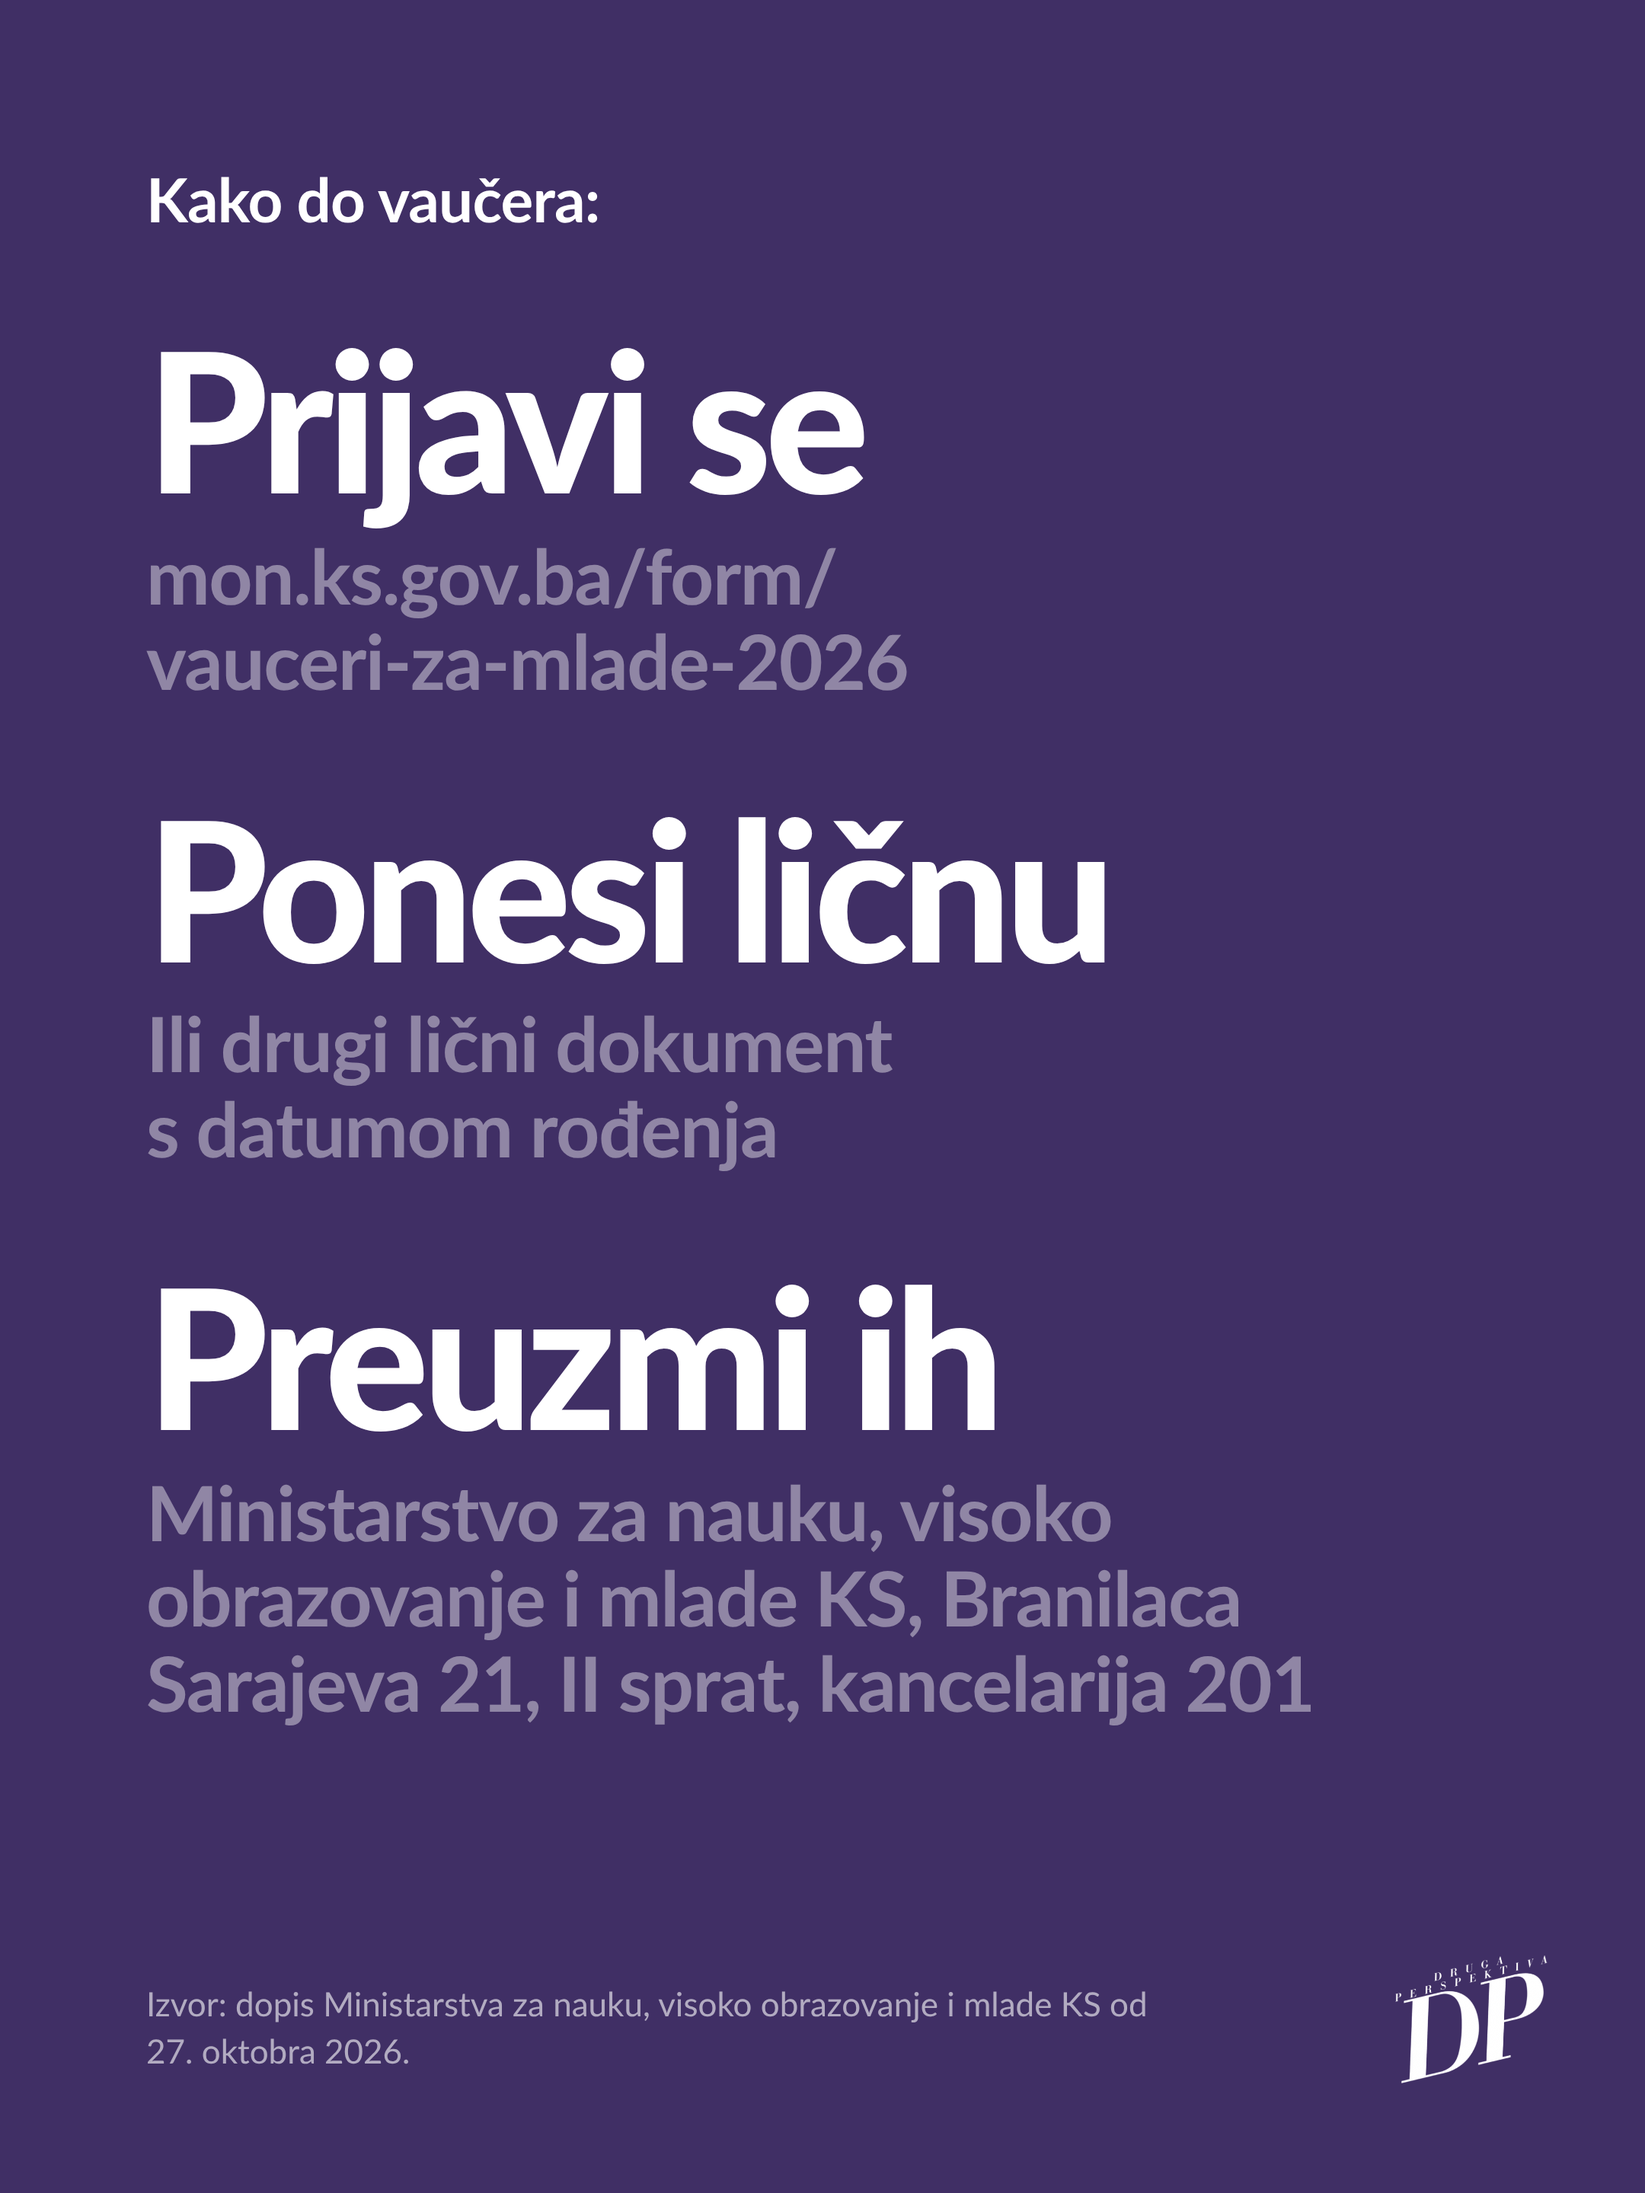
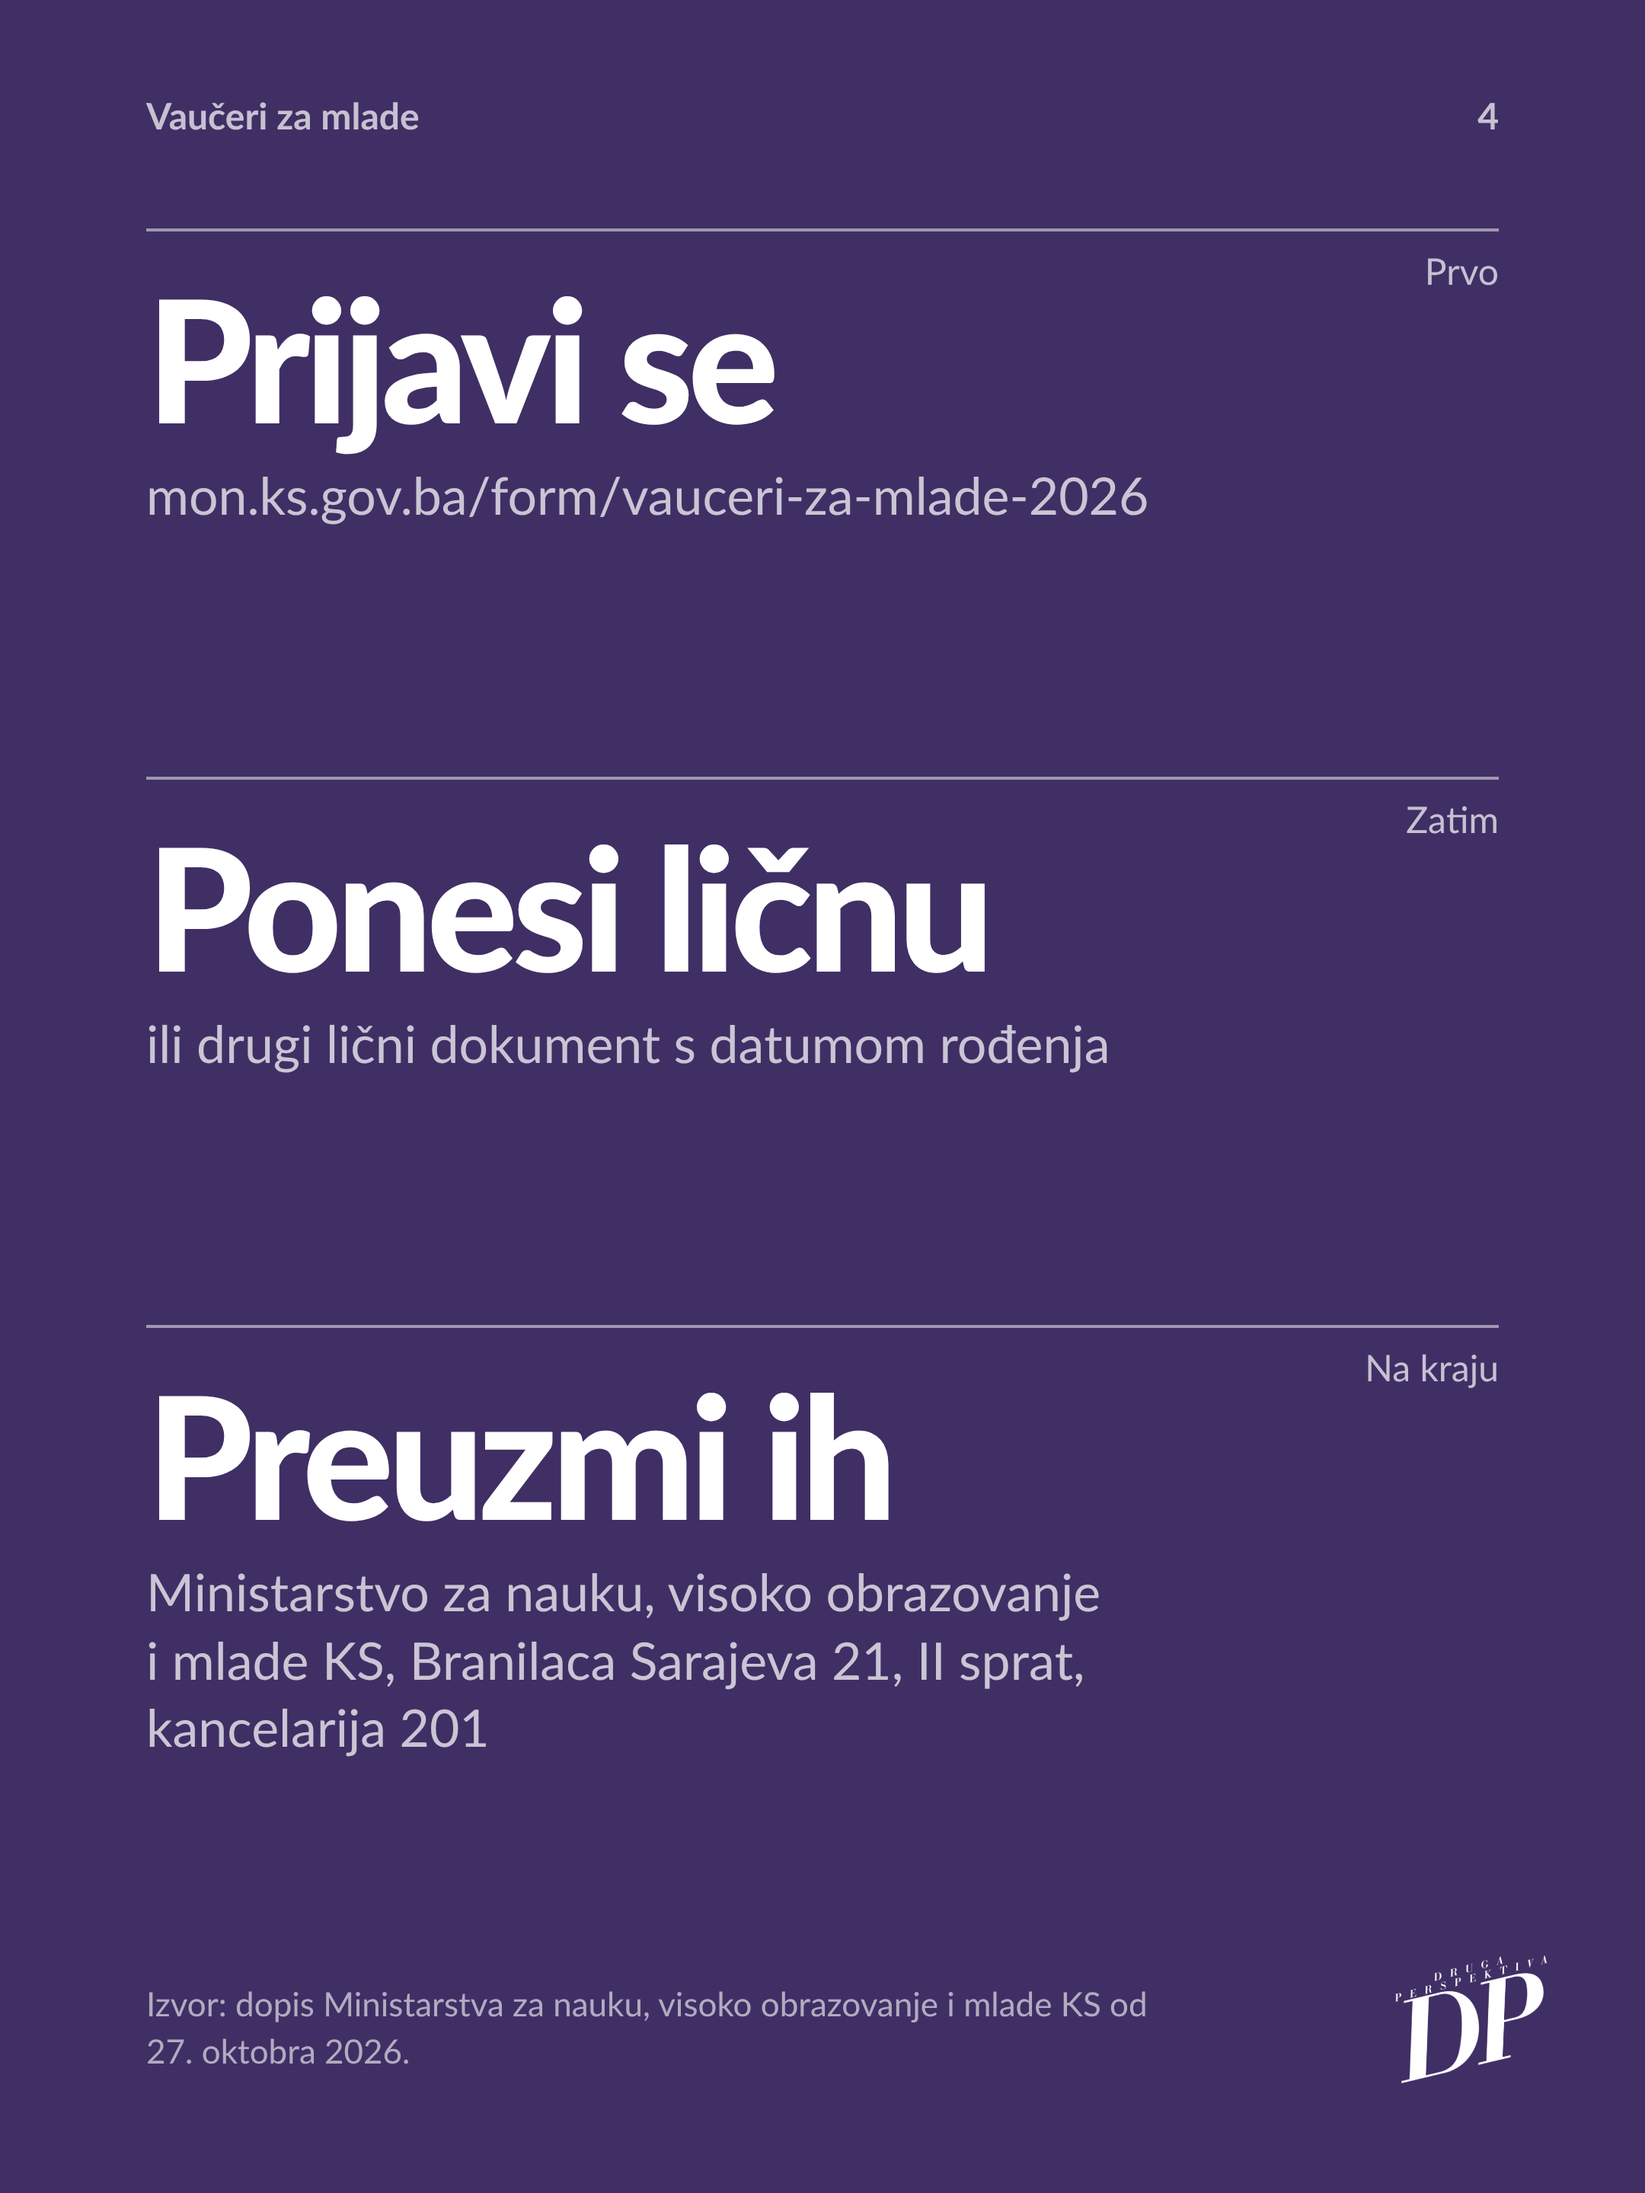
Vaučeri za mlade: zajednička mreža, tekući naslov, tekst na nebu
Claude-Session: https://claude.ai/code/session_01SB3ebjUddtcZXLP7FT1aSs

diff --git a/promo/vauceri-za-mlade/dizajn.html b/promo/vauceri-za-mlade/dizajn.html
@@ -75,31 +75,33 @@ body { background: #777; font-family: "Lato", sans-serif; color: #fff; padding: 
 
 
 
-/* ---- Vaučeri za mlade: veliki Lato Black, naizmjenično bijelo i blijedo ---- */
-.blijedo { color: rgba(255,255,255,.42); }
 
-/* Slajd 2: fotografija preko cijelog slajda */
-.c .prelaz { height: 74%; }
-.c .dno { position: absolute; left: 64px; right: 64px; bottom: 132px; }
-.c .izjava { font-size: 150px; }
-.c .tekst { margin-top: 28px; font-size: 36px; color: rgba(255,255,255,.9); }
+/* ---- Vaučeri za mlade: zajednička mreža ----
+   Margine 96 px, tekući naslov gore (kao u časopisu), tanke linije dijele trake. */
+.folio { position: absolute; left: 96px; right: 96px; top: 64px; display: flex; justify-content: space-between; font-size: 24px; font-weight: 700; color: rgba(255,255,255,.7); }
+.traka { position: relative; border-top: 2px solid rgba(255,255,255,.5); }
+.traka .oznaka-trake { position: absolute; right: 0; top: 14px; font-size: 24px; color: rgba(255,255,255,.7); }
 
-/* Slajd 3: plakat, svako ime razvučeno preko cijele širine (JS ispod) */
-.a { padding: 104px 96px 0; }
-.a .uvod { font-size: 40px; font-weight: 700; letter-spacing: -0.01em; }
-.a .imena { position: absolute; left: 96px; right: 96px; top: 190px; bottom: 190px; display: flex; flex-direction: column; justify-content: space-between; }
-.a .imena span { display: block; white-space: nowrap; font-weight: 900; line-height: .8; letter-spacing: -0.035em; width: max-content; }
-.a .imena .muzej { color: var(--narandza); }
-.a .dno { position: absolute; left: 96px; right: 200px; bottom: 76px; font-size: 34px; line-height: 1.3; color: rgba(255,255,255,.9); }
-.a .dno b { border-left: 12px solid var(--narandza); padding-left: 24px; display: block; }
+/* Slajd 2: tamni tekst na nebu, zgrada nosi donji dio */
+.c .foto { height: 1660px; bottom: auto; object-position: 50% 0%; }
+.c .folio { color: rgba(20,20,20,.7); }
+.c .izjava { position: absolute; left: 96px; right: 96px; top: 118px; font-size: 104px; color: var(--tinta); }
+.c .prelaz { height: 30%; }
+.c .dno { position: absolute; left: 96px; right: 260px; bottom: 76px; font-size: 32px; line-height: 1.3; color: rgba(255,255,255,.92); }
 
-/* Slajd 4: kako do vaučera, isti ritam */
-.k { padding: 110px 80px 0 96px; }
-.k .uvod { font-size: 40px; font-weight: 700; letter-spacing: -0.01em; }
-.k .veliko { font-size: 128px; font-weight: 900; line-height: .95; letter-spacing: -0.035em; margin-top: 56px; }
-.k .veliko:first-of-type { margin-top: 44px; }
-.k .detalj { font-size: 50px; font-weight: 700; line-height: 1.12; letter-spacing: -0.015em; margin-top: 18px; }
-.izvor { position: absolute; left: 96px; right: 240px; bottom: 76px; font-size: 22px; line-height: 1.4; color: rgba(255,255,255,.6); }
+/* Slajd 3: dvije trake, pozorišta i muzeji */
+.a .traka { position: absolute; left: 96px; right: 96px; }
+.a .t1 { top: 150px; } .a .t2 { top: 630px; }
+.a .imena { padding-top: 34px; }
+.a .imena span { display: block; white-space: nowrap; font-size: 84px; font-weight: 900; line-height: 1.04; letter-spacing: -0.032em; }
+.a .t2 .imena span { color: var(--narandza); }
+.a .dno { position: absolute; left: 96px; right: 260px; bottom: 76px; font-size: 32px; line-height: 1.3; color: rgba(255,255,255,.92); }
+
+/* Slajd 4: tri trake jednake visine */
+.k .koraci { position: absolute; left: 96px; right: 96px; top: 150px; bottom: 210px; display: grid; grid-template-rows: 1fr 1fr 1fr; }
+.k .veliko { padding-top: 30px; font-size: 112px; font-weight: 900; line-height: .95; letter-spacing: -0.035em; }
+.k .detalj { margin-top: 18px; font-size: 34px; line-height: 1.3; color: rgba(255,255,255,.72); max-width: 700px; }
+.izvor { position: absolute; left: 96px; right: 260px; bottom: 76px; font-size: 22px; line-height: 1.4; color: rgba(255,255,255,.6); }
 </style>
 </head>
 <body>
@@ -107,45 +109,45 @@ body { background: #777; font-family: "Lato", sans-serif; color: #fff; padding: 
 <section class="slide post c">
 	<img class="foto" src="muzej.jpg" alt="Historijski muzej Bosne i Hercegovine 1963. godine">
 	<div class="prelaz"></div>
-	<div class="dno">
-		<p class="izjava">Devet ulaznica. Svaka za dvoje.</p>
-		<p class="tekst">Poklon za 18. rođendan svima rođenim 2008. koji žive u&nbsp;Kantonu Sarajevo.</p>
-	</div>
+	<div class="folio"><span>Vaučeri za mlade</span><span>2</span></div>
+	<p class="izjava">Devet ulaznica. Svaka za&nbsp;dvoje.</p>
+	<p class="dno">Poklon za 18. rođendan svima rođenim 2008. koji žive u&nbsp;Kantonu Sarajevo.</p>
 	<img class="logo" src="../../dp-objave/assets/logo-bijeli.png" alt="">
 	<div class="potpis">Foto: Boris Magaš, CC BY-SA 4.0</div>
 </section>
 
 <section class="slide post a">
-	<p class="uvod">Ulaznice vrijede za:</p>
-	<div class="imena"><span>Narodno pozorište</span><span>Pozorište mladih</span><span>SARTR</span><span>Kamerni teatar&nbsp;55</span><span class="muzej">Zemaljski muzej</span><span class="muzej">Historijski muzej</span><span class="muzej">Muzej Sarajeva</span><span class="muzej">Muzej ratnog djetinjstva</span><span class="muzej">Planet Sarajevo</span></div>
-	<p class="dno"><b>Iskoristiš svih devet? Čeka te posebna nagrada.</b></p>
+	<div class="folio"><span>Vaučeri za mlade</span><span>3</span></div>
+	<div class="traka t1"><span class="oznaka-trake">Pozorišta</span>
+		<div class="imena"><span>Narodno pozorište</span><span>Pozorište mladih</span><span>SARTR</span><span>Kamerni teatar&nbsp;55</span></div>
+	</div>
+	<div class="traka t2"><span class="oznaka-trake">Muzeji</span>
+		<div class="imena"><span>Zemaljski muzej</span><span>Historijski muzej</span><span>Muzej Sarajeva</span><span>Muzej ratnog djetinjstva</span><span>Planet Sarajevo</span></div>
+	</div>
+	<p class="dno">Iskoristiš svih devet? Čeka te posebna nagrada.</p>
 	<img class="logo" src="../../dp-objave/assets/logo-bijeli.png" alt="">
 </section>
 
 <section class="slide post k">
-	<p class="uvod">Kako do vaučera:</p>
-	<p class="veliko">Prijavi se</p>
-	<p class="detalj blijedo">mon.ks.gov.ba/form/<br>vauceri-za-mlade-2026</p>
-	<p class="veliko">Ponesi ličnu</p>
-	<p class="detalj blijedo">Ili drugi lični dokument s&nbsp;datumom&nbsp;rođenja</p>
-	<p class="veliko">Preuzmi ih</p>
-	<p class="detalj blijedo">Ministarstvo za nauku, visoko obrazovanje i&nbsp;mlade KS, Branilaca Sarajeva&nbsp;21, II&nbsp;sprat, kancelarija&nbsp;201</p>
+	<div class="folio"><span>Vaučeri za mlade</span><span>4</span></div>
+	<div class="koraci">
+		<div class="traka"><span class="oznaka-trake">Prvo</span>
+			<p class="veliko">Prijavi se</p>
+			<p class="detalj">mon.ks.gov.ba/form/vauceri-za-mlade-2026</p>
+		</div>
+		<div class="traka"><span class="oznaka-trake">Zatim</span>
+			<p class="veliko">Ponesi ličnu</p>
+			<p class="detalj">ili drugi lični dokument s&nbsp;datumom&nbsp;rođenja</p>
+		</div>
+		<div class="traka"><span class="oznaka-trake">Na kraju</span>
+			<p class="veliko">Preuzmi ih</p>
+			<p class="detalj">Ministarstvo za nauku, visoko obrazovanje i&nbsp;mlade KS, Branilaca Sarajeva&nbsp;21, II&nbsp;sprat, kancelarija&nbsp;201</p>
+		</div>
+	</div>
 	<p class="izvor">Izvor: dopis Ministarstva za nauku, visoko obrazovanje i mlade KS od 27.&nbsp;oktobra 2026.</p>
 	<img class="logo" src="../../dp-objave/assets/logo-bijeli.png" alt="">
 </section>
 
-<script>
-/* Plakat: svako ime tačno preko cijele širine; ako ne stane po visini, sve se smanji jednako. */
-document.fonts.ready.then(function () {
-	document.querySelectorAll('.imena').forEach(function (box) {
-		var W = box.clientWidth, H = box.clientHeight, spans = box.querySelectorAll('span');
-		spans.forEach(function (s) { s.style.fontSize = '100px'; s.style.fontSize = (100 * W / s.offsetWidth) + 'px'; });
-		var total = 0; spans.forEach(function (s) { total += s.offsetHeight; });
-		var gap = 14 * (spans.length - 1);
-		if (total + gap > H) { var k = (H - gap) / total; spans.forEach(function (s) { s.style.fontSize = (parseFloat(s.style.fontSize) * k) + 'px'; }); }
-	});
-});
-</script>
 <script>
 /* Bosanska tipografija za sve tekstove: „navodnici“, …, – i jednoslovne riječi vezane za sljedeću. */
 (function () {
